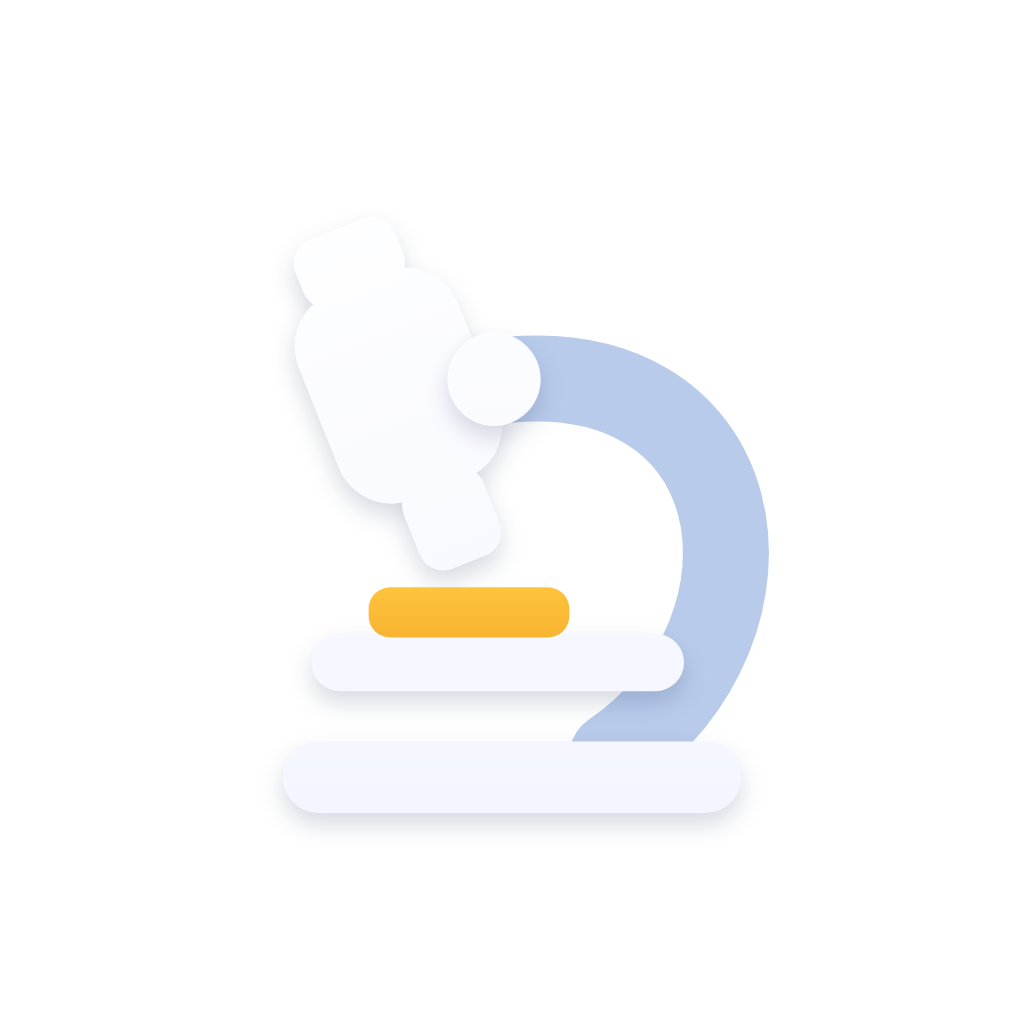
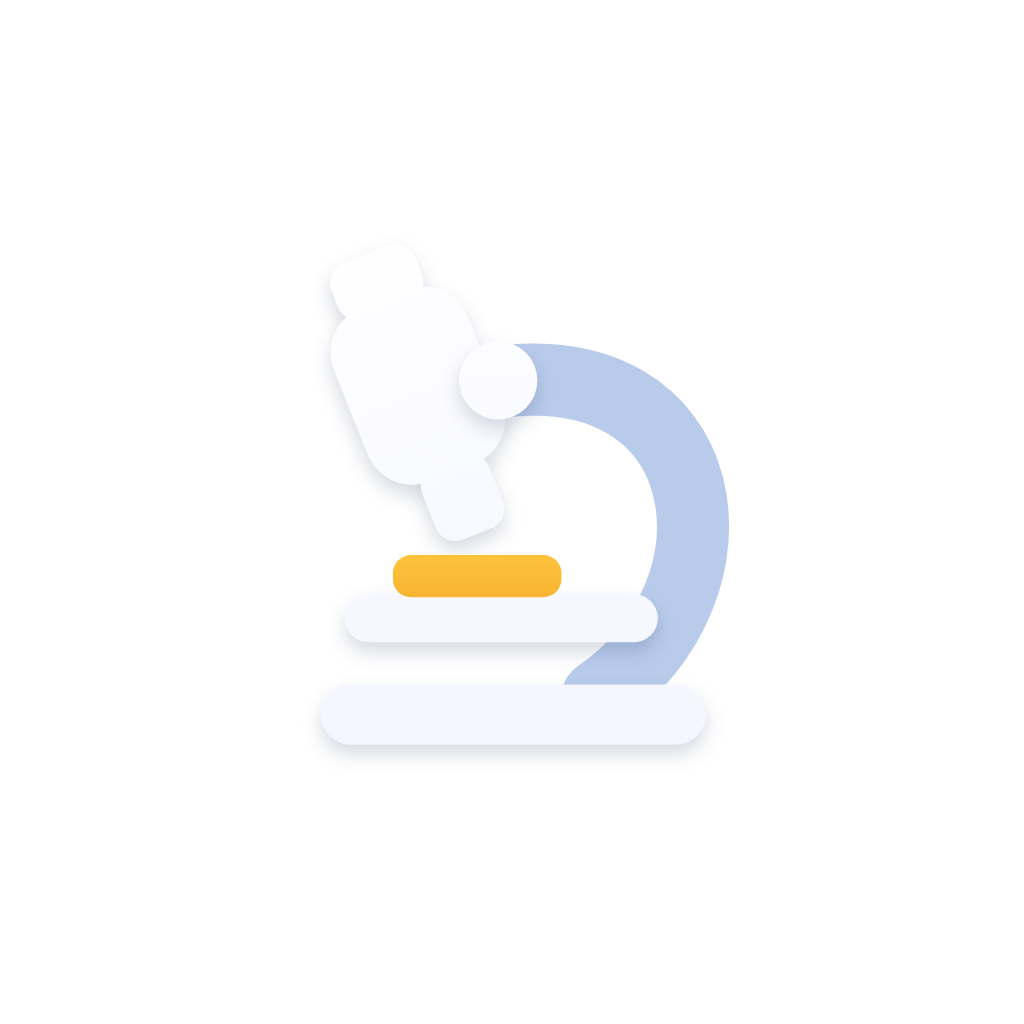
Icône adaptative : microscope réduit pour tenir dans la zone sûre circulaire
Tous les pixels du calque de premier plan sont à 302 px du centre au plus (limite 307 px).

Changed region(s): [[0.4688, 0.3125, 0.75, 0.75], [0.3438, 0.4688, 0.5625, 0.625], [0.2812, 0.7812, 0.7188, 0.8125]]

diff --git a/tool/generer_icone_test.dart b/tool/generer_icone_test.dart
@@ -34,6 +34,7 @@ void main() {
     required bool fond,
     required double part, // taille du widget relative au carré
     Color? bras,
+    Offset decalage = Offset.zero,
   }) async {
     tester.view.devicePixelRatio = 1;
     tester.view.physicalSize = Size(px.toDouble(), px.toDouble());
@@ -47,7 +48,10 @@ void main() {
             height: px.toDouble(),
             decoration: fond ? const BoxDecoration(gradient: _degrade) : null,
             alignment: Alignment.center,
-            child: MicroscopeIcon(size: px * part, bras: bras),
+            child: Transform.translate(
+              offset: decalage,
+              child: MicroscopeIcon(size: px * part, bras: bras),
+            ),
           ),
         ),
       ),
@@ -66,9 +70,11 @@ void main() {
     addTearDown(tester.view.reset);
     // Le dessin occupe ~70 % de son carré.
     await rendre(tester, 'assets/icon.png', 1024, fond: true, part: 0.82, bras: _bras);
-    // Zone sûre adaptative Android : 66 % (silhouette ~83 % du widget : 0,70 x 0,83 = 58 %).
+    // Zone sûre adaptative Android : cercle de 60 % (rayon max 307 px, mesuré)
+    // ; le décalage recentre le dessin sur son cercle minimal. Ancien : 66 % (silhouette ~83 % du widget : 0,70 x 0,83 = 58 %).
     await rendre(tester, 'assets/icon_foreground.png', 1024,
-        fond: false, part: 0.70, bras: _bras);
+        fond: false, part: 0.588, bras: _bras,
+        decalage: const Offset(1.3, -20.2));
     for (final t in [192, 512]) {
       await rendre(tester, 'web/icons/Icon-$t.png', t, fond: true, part: 0.82, bras: _bras);
       // Maskable : contenu dans 80 % (~68 %).
